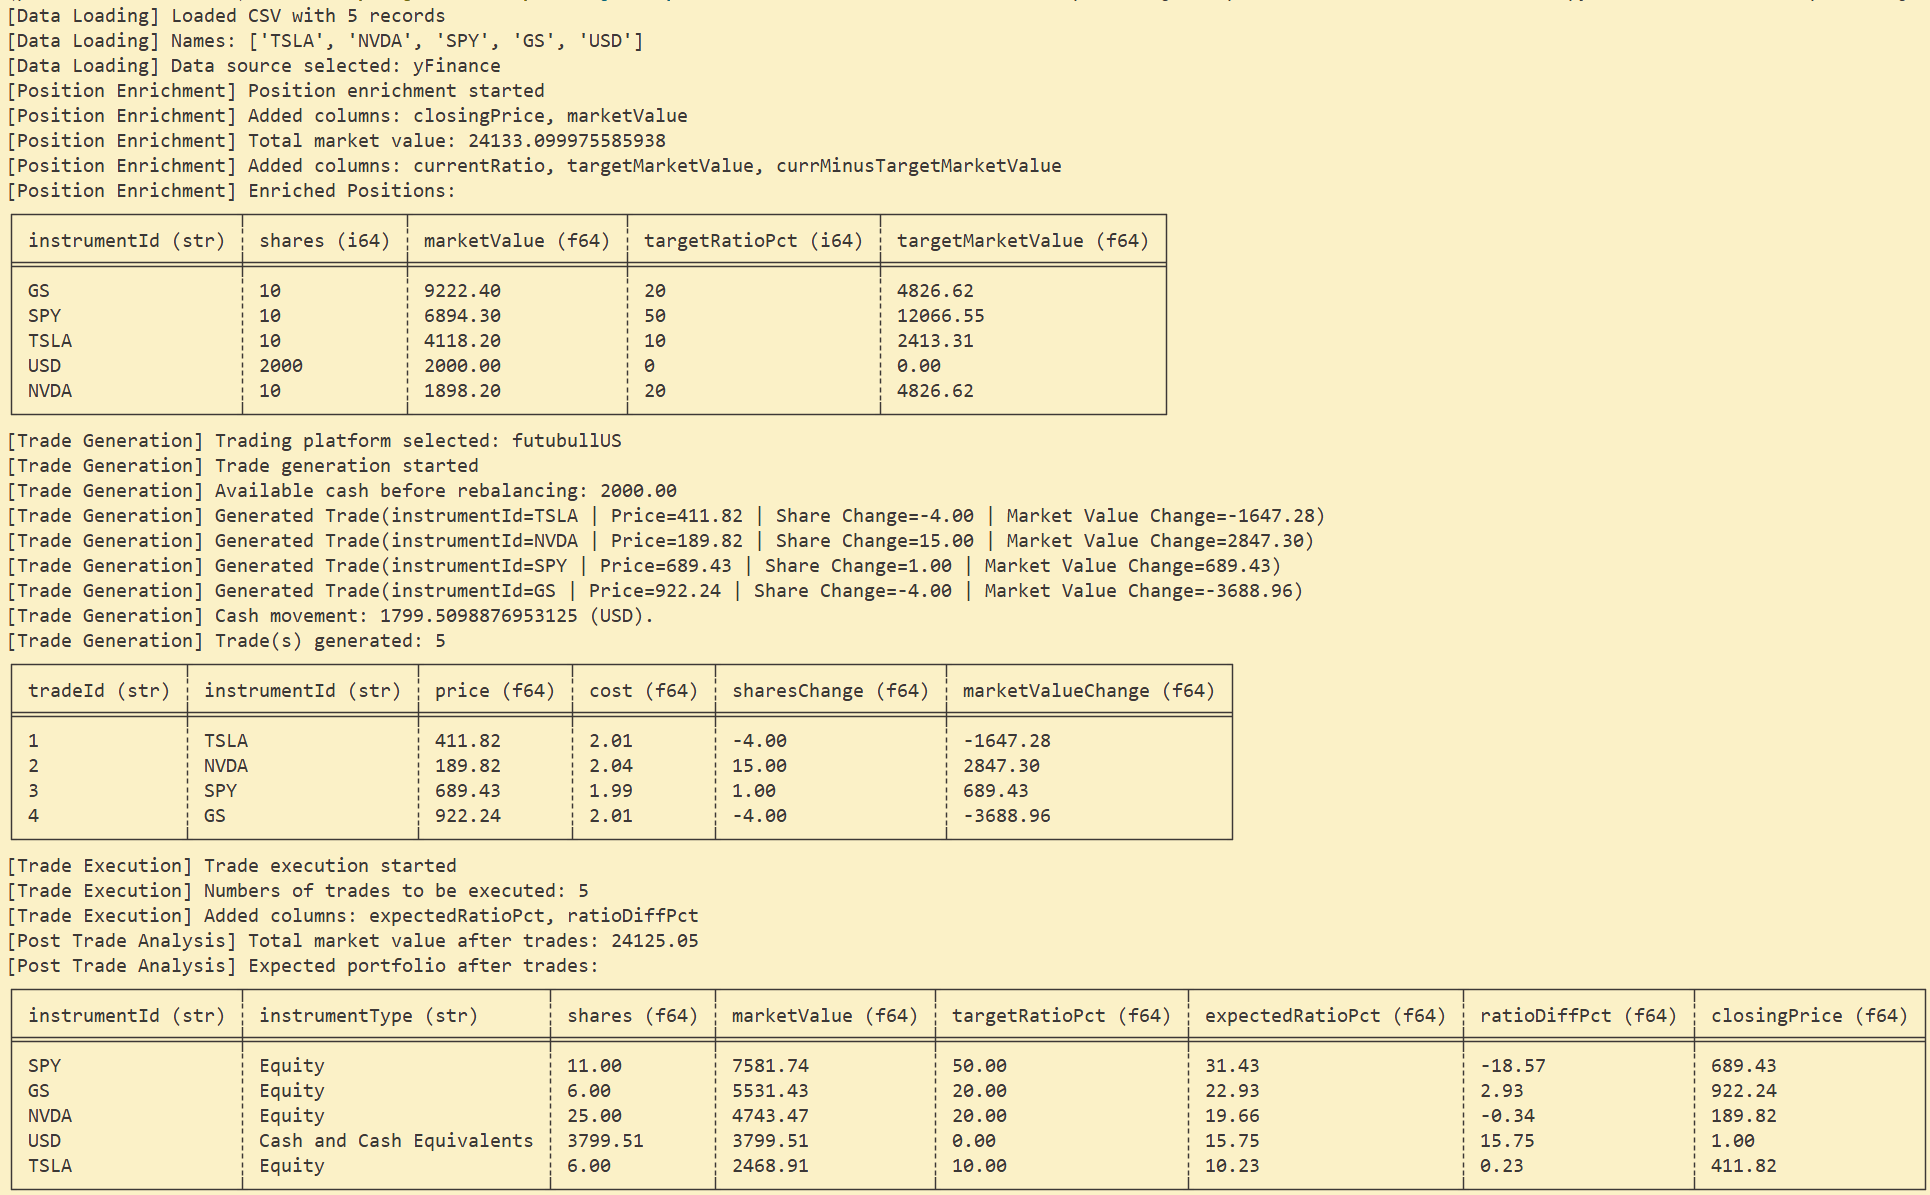
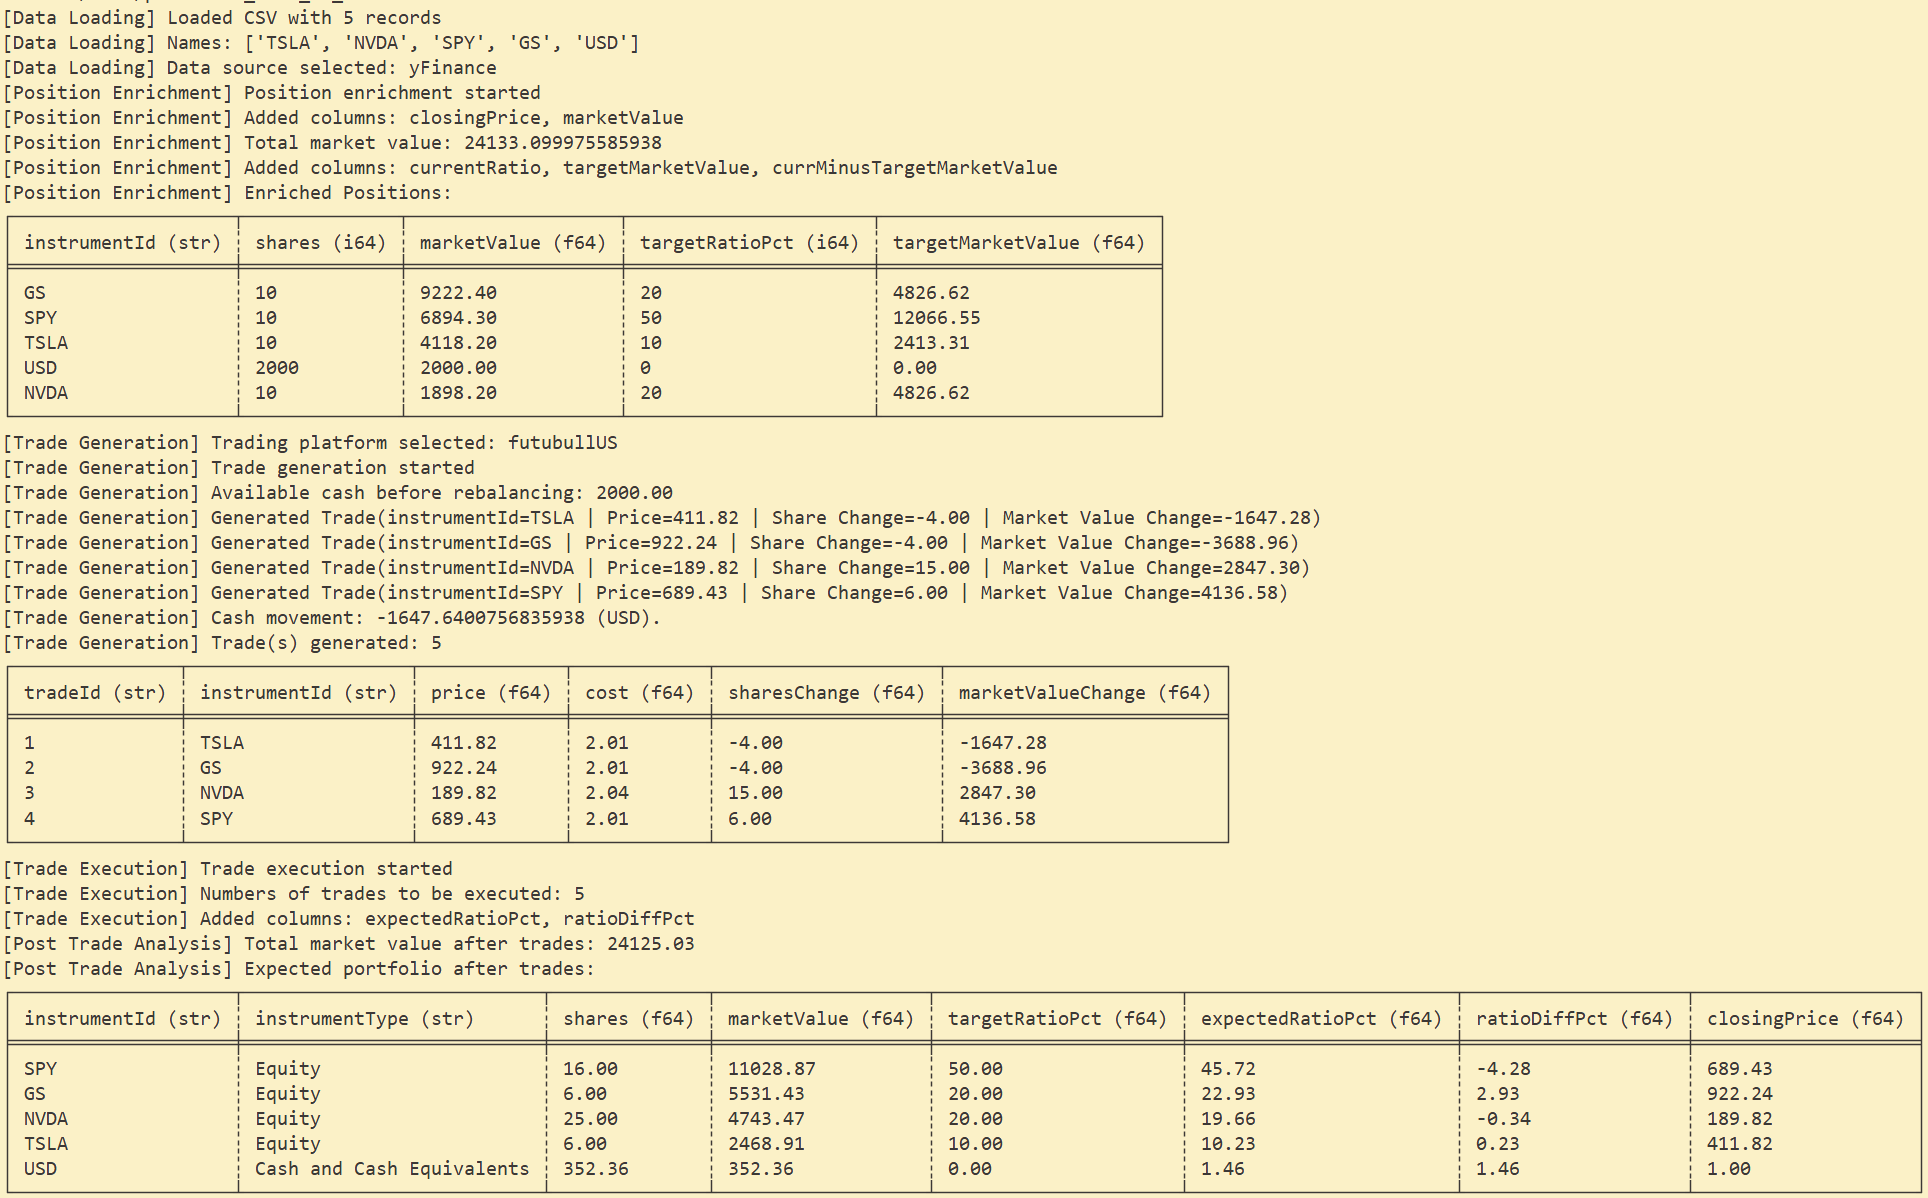
fix trade generation logic

Changed region(s): [[0.0, 0.0, 1.0, 1.0]]

diff --git a/main.py b/main.py
@@ -212,14 +212,13 @@ def printTradeSummary(trades: list[Trade]) -> None:
 def generateTrades(positionEnrichedDF: pl.DataFrame, tradingPlatform: TradingPlatform, tradeTimestamp: datetime) -> list[Trade]:
     """
     Generate trades to rebalance the portfolio.
-
     Strategy:
     1. Use cash first (idType == 'cash') to fund purchases.
-    2. For non-cash positions, compute the integer share delta needed to move
+    2. Two-pass ordering: process sells first to free up cash, then process buys.
+    3. For non-cash positions, compute the integer share delta needed to move
        each position toward its target market value.
-    3. After share-level rounding, reconcile the residual cash impact so the
+    4. After share-level rounding, reconcile the residual cash impact so the
        cash position absorbs whatever is left over.
-
     Returns a list of Trade objects (cash trade last, after netting).
     """
     logger.info(f"[Trade Generation] Trade generation started")
@@ -227,11 +226,16 @@ def generateTrades(positionEnrichedDF: pl.DataFrame, tradingPlatform: TradingPla
     (hasCash, cashAvailable) = getAvailableCash(positionEnrichedDF)
     logger.info(f"[Trade Generation] Available cash before rebalancing: {cashAvailable:.2f}")
 
-    # Assumption: Execution ordered by row sequence
     netCashUsed: float = 0.0
     trades: list[Trade] = []
     nonCashRows = positionEnrichedDF.filter(pl.col("instrumentType") != "Cash and Cash Equivalents")
-    for index, row in enumerate(nonCashRows.iter_rows(named=True), start=1):
+
+    # Two-pass ordering: sells first (currMinusTargetMarketValue > 0) then buys (< 0)
+    sellRows = nonCashRows.filter(pl.col("currMinusTargetMarketValue") > 0)
+    buyRows = nonCashRows.filter(pl.col("currMinusTargetMarketValue") < 0)
+    orderedRows = pl.concat([sellRows, buyRows])
+
+    for index, row in enumerate(orderedRows.iter_rows(named=True), start=1):
         tradeId: int = index
         instrumentId: str = row["instrumentId"]
         instrumentType: str = row["instrumentType"]
@@ -244,8 +248,9 @@ def generateTrades(positionEnrichedDF: pl.DataFrame, tradingPlatform: TradingPla
             continue
 
         requiredSharesChange = -1 * targetDifference / closingPrice  # positive = buy, negative = sell
+
         if requiredSharesChange >= 0:
-            # Buying — constrained by available cash
+            # Buying — constrained by available cash (including cash freed from sells)
             maxSharesBuyable = int((cashAvailable - netCashUsed) / closingPrice)
             sharesChange = min(int(requiredSharesChange), maxSharesBuyable)
         else:
@@ -271,34 +276,35 @@ def generateTrades(positionEnrichedDF: pl.DataFrame, tradingPlatform: TradingPla
             )
         )
         logger.info(f"[Trade Generation] Generated Trade(instrumentId={instrumentId} | Price={closingPrice:.2f} | Share Change={sharesChange:.2f} | Market Value Change={marketValueChange:.2f})")
-    
-    
+
     # Cash movement
     isCashUsed = abs(netCashUsed) > 0.01
     if hasCash and isCashUsed:
         cashMovement = -1 * netCashUsed  # cash decreases when we buy, increases when we sell
         trades.append(
             Trade(
-                tradeId=str(len(nonCashRows)),
+                tradeId=str(len(orderedRows)),
                 instrumentId="USD",
                 instrumentType="Cash and Cash Equivalents",
-                price=1, #Assumption: Cash is in USD
+                price=1,  # Assumption: Cash is in USD
                 sharesChange=cashMovement,
                 marketValueChange=cashMovement,
                 timestamp=tradeTimestamp,
             )
         )
         logger.info(f"[Trade Generation] Cash movement: {cashMovement} (USD).")
+
     logger.info(f"[Trade Generation] Trade(s) generated: {len(trades)}")
 
     # Transaction Cost
     for trade in trades:
         trade.calcTransactionCost(platform=tradingPlatform)
-    
+
     if trades:
         printTradeSummary(trades)
     else:
         logger.info(f"[Trade Generation] No trades generated.")
+
     return trades
 
 def applyTrades(positionEnrichedDF: pl.DataFrame, trades: list[Trade]) -> pl.DataFrame:
